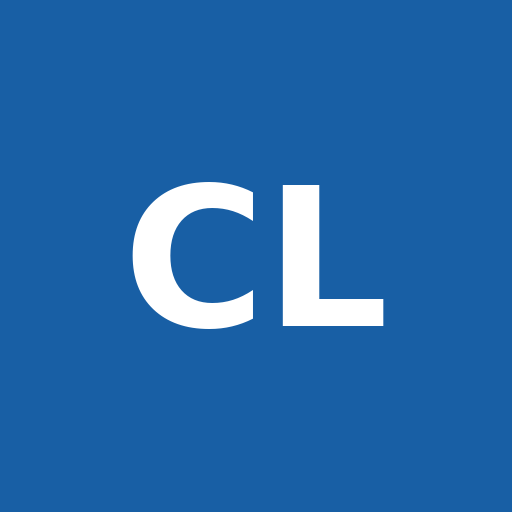
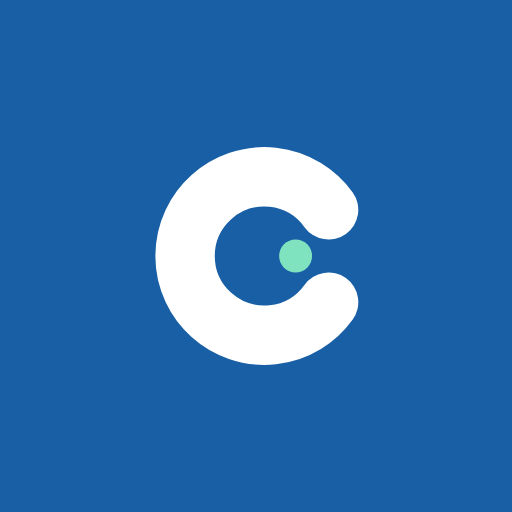
새 로고 — C 상징 + certlab (그록 안) · 앱 아이콘 CL→C · 글자·선 색 토큰과 카드 모서리 16px

Changed region(s): [[0.25, 0.2812, 0.75, 0.7188]]

diff --git a/style.css b/style.css
@@ -6,14 +6,14 @@
    overflow-wrap:break-word 는 도피구다 — 한 어절이 통째로 폭보다 길면(긴 URL·영문 한 덩어리)
    그때만 쪼개서 넘침을 막는다. keep-all 만 두면 그런 것이 박스를 뚫고 나간다. */
 body{background:#FDF8F5;color:#2C2C2A;font-family:'Pretendard Variable',Pretendard,-apple-system,'Apple SD Gothic Neo','Malgun Gothic','Noto Sans KR','Segoe UI',sans-serif;min-height:100dvh;display:flex;flex-direction:column;max-width:480px;margin:0 auto;word-break:keep-all;overflow-wrap:break-word}
-:root{--pink:#B5D4F4;--pink2:#85B7EB;--pink3:#185FA5;--peach:#B5D4F4;--peach2:#85B7EB;--mint:#9FE1CB;--mint2:#1D9E75;--purple:#9CC3EE;--purple2:#0C447C;--yellow:#FAC775;--bg:#FDF8F5;--surface:#FFFFFF;--surface2:#EFF6FD;--muted:#888780;--text:#2C2C2A;--text2:#5F5E5A;--wrong:#E24B4A;--wrong-bg:#FCEBEB;--radius:20px;--radius-sm:12px}
+:root{--line:#E8E4DF;--warn:#F59E0B;--info:#3B82F6;--accent:#1D9E75;--pink:#B5D4F4;--pink2:#85B7EB;--pink3:#185FA5;--peach:#B5D4F4;--peach2:#85B7EB;--mint:#9FE1CB;--mint2:#1D9E75;--purple:#9CC3EE;--purple2:#0C447C;--yellow:#FAC775;--bg:#FDF8F5;--surface:#FFFFFF;--surface2:#EFF6FD;--muted:#8A8A84;--text:#1F1F1D;--text2:#5C5C58;--wrong:#E24B4A;--wrong-bg:#FCEBEB;--radius:16px;--radius-sm:12px}
 .header{padding:16px 20px 12px;display:flex;align-items:center;gap:10px;background:#fff;border-bottom:1px solid #B5D4F4}
 .event-badge{display:flex;flex-direction:column;align-items:center;justify-content:center;text-decoration:none;background:linear-gradient(135deg,#FFF4E0,#FFE4C2);border:1.5px solid #F2B23C;border-radius:10px;padding:4px 9px;line-height:1.2;flex-shrink:0;animation:ebPulse 2.2s ease-in-out infinite}
 @keyframes ebPulse{0%,100%{box-shadow:0 0 0 0 rgba(242,178,60,0)}50%{box-shadow:0 0 8px 1px rgba(242,178,60,.5)}}
 .event-badge .eb-l1{font-size:12px;font-weight:800;color:#A8650A;white-space:nowrap}
 .event-badge .eb-l2{font-size:10.5px;font-weight:700;color:#B5730C;white-space:nowrap}
 .event-badge:active{transform:scale(.96)}
-.logo{font-size:18px;font-weight:700;background:linear-gradient(135deg,#185FA5,#0C447C);-webkit-background-clip:text;-webkit-text-fill-color:transparent;background-clip:text}
+.logo{display:flex;align-items:center;gap:6px;font-size:20px;font-weight:800;letter-spacing:-0.3px;color:#185FA5}.logo-mark{width:24px;height:24px;flex:0 0 24px}.logo-word{line-height:1}
 .mode-pill{margin-left:auto;font-size:11px;font-weight:600;background:#E6F1FB;color:#185FA5;padding:4px 12px;border-radius:20px;border:1px solid #B5D4F4;display:none}
 .mode-pill.wrong{background:#FCEBEB;color:#A32D2D;border-color:#F7C1C1}
 .subjects-wrap{background:#fff;padding:10px 0;border-bottom:1px solid #E6EEF8;position:relative;display:flex;align-items:center}

diff --git a/index.html b/index.html
@@ -62,7 +62,7 @@ gtag('config', 'G-RPZRZQ779J', {
      dynamic-subset 이라 쓰는 글자만 내려받는다 (CSS 53KB). -->
 <link rel="preconnect" href="https://cdn.jsdelivr.net" crossorigin>
 <link rel="stylesheet" href="https://cdn.jsdelivr.net/gh/orioncactus/pretendard@v1.3.9/dist/web/variable/pretendardvariable-dynamic-subset.min.css">
-<link rel="stylesheet" href="style.css?v=1ac4a83c">
+<link rel="stylesheet" href="style.css?v=80b18ce0">
 <link rel="stylesheet" href="subjective-responsive.css?v=c8a6a836">
 <!-- Meta Pixel Code -->
 <!-- [2026-09-02] 메타 픽셀을 뺐다. 광고를 다 껐으므로 값을 안 하는데
@@ -123,7 +123,7 @@ window.clLeadOnce = function(cert){ if(window._clLeadFired) return; window._clLe
 
 <div class="header">
   <div class="brand-area" onclick="goHome()" style="cursor:pointer">
-    <div class="logo">CertLab</div>
+    <div class="logo"><svg class="logo-mark" viewBox="6 5 68 70" aria-hidden="true"><path d="M62 26 A24 24 0 1 0 62 54" stroke="#185FA5" stroke-width="18" fill="none" stroke-linecap="round"/><circle cx="52" cy="40" r="4.5" fill="#1D9E75"/></svg><span class="logo-word">certlab</span></div>
     <div class="slogan">도전하는 사람들의 성공을 돕습니다</div>
   </div>
   <div class="header-right">
